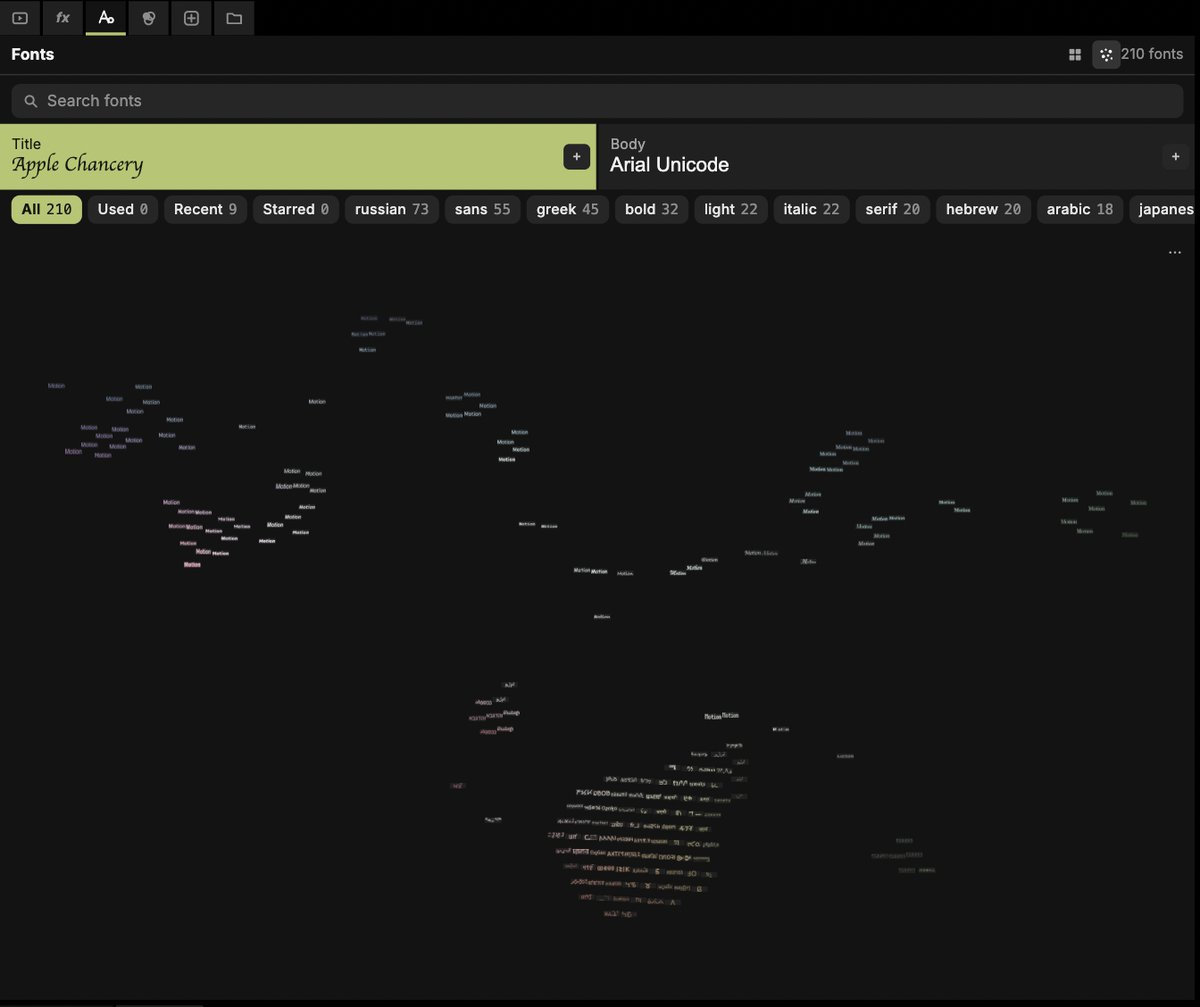
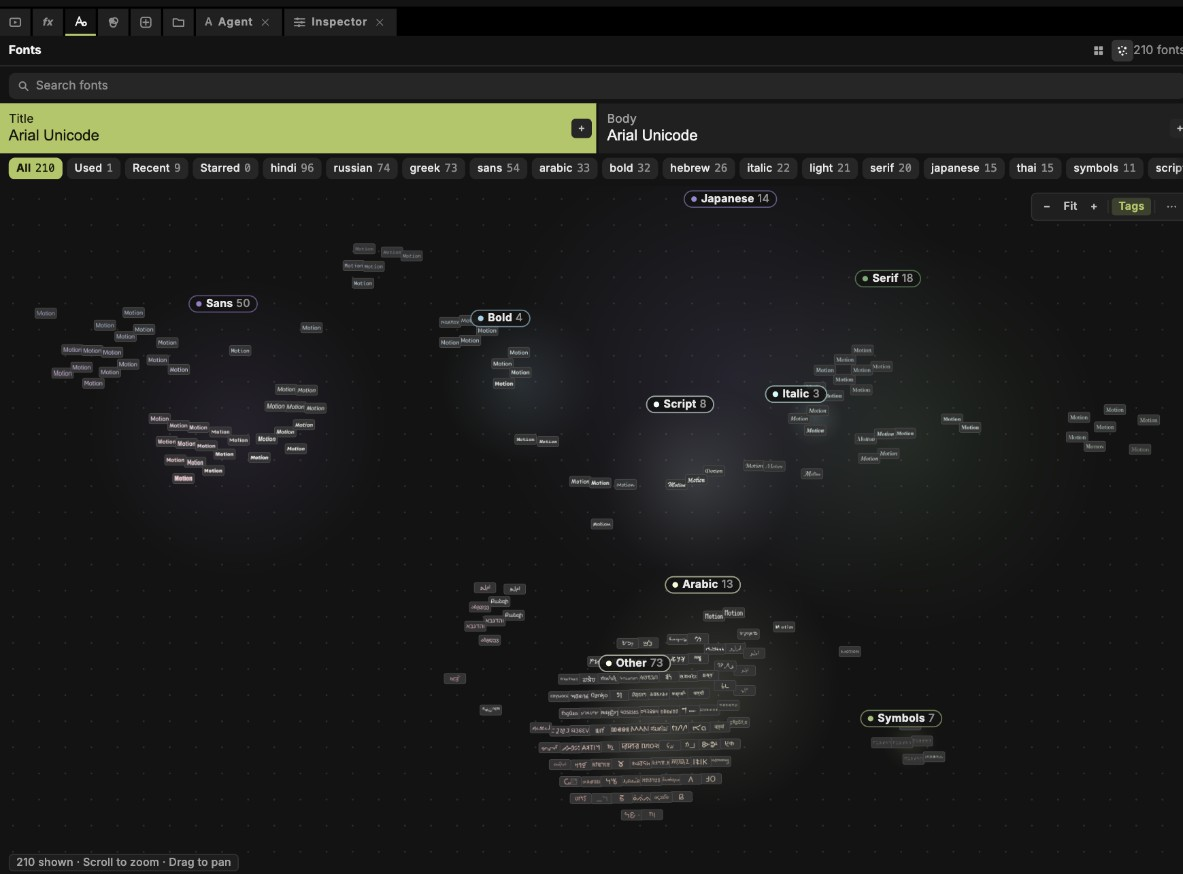
docs(pictures): refresh all UI screenshots to latest Motolii UI and fix shelf tab overflow

diff --git a/app/lib/workspace/window/panes.dart b/app/lib/workspace/window/panes.dart
@@ -307,9 +307,10 @@ class _PanesState extends State<Panes> {
       weight: weight,
       minimalSize: p.minSize,
       keepAlive: true,
-      // Stage and Tool Panel stay anchored as the workspace backbone; every other default tab
-      // and Vism panel can be closed freely and restored anytime via Tools.
-      closable: closable || (name != 'Stage' && name != 'Tool Panel'),
+      // Stage, Tool Panel, and compact icon-only shelf tabs stay clean without inline close icons;
+      // every named pane and Vism tab can be closed freely and restored anytime via Tools.
+      closable:
+          closable || (!p.iconOnly && name != 'Stage' && name != 'Tool Panel'),
       maximizable: false,
     );
   }
@@ -373,6 +374,8 @@ TabbedViewThemeData _tabs() {
     )
     ..normalButtonColor = Grey.g56
     ..hoverButtonColor = Grey.g91
+    ..buttonIconSize = Shape.z(11)
+    ..buttonsOffset = Shape.s(4)
     ..selectedStatus = (TabStatusThemeData()
       ..decoration = plain
           ? const BoxDecoration()

diff --git a/docs/index.html b/docs/index.html
@@ -543,8 +543,8 @@
           </div>
           <div class="txt">
             <span class="where">Tool Panel</span>
-            <h3>Blend と Align</h3>
-            <p>Blend は重なり順と合成モードを、重なる円で見せる一覧。Align は選んだレイヤーをキャンバスの端や中央に揃える。自分の道具も Dart 数行でここに足せる。</p>
+            <h3>Blend・Align・Vism パネル</h3>
+            <p>Blend は重なり順と合成モードを重なる円で見せる一覧。Align は選んだレイヤーをキャンバスの端や中央に揃える。さらに <code>+ New Vism</code> から JavaScript 1 本で独自の操作パネルを作り、<code>.vism</code> パックとして配布・導入できる。</p>
           </div>
         </article>
 

diff --git a/docs/TABS.ja.md b/docs/TABS.ja.md
@@ -97,7 +97,7 @@ Motolii のすべてのタブとパネルの機能紹介です。スクリーン
 
 レイヤー・テンプレート・コードを新規作成するための棚です。
 
-- **レイヤー：** Text・Camera・Adjustment。**図形（Shapes）。** **3D 立体（Solids）：** Ring・Gem・Cube・Floor。**ライト：** Sun・Point・Spot。
+- **レイヤー：** Text・Camera・Adjustment。**図形（Shapes）。** **3D 立体（Solids）：** Ring・Gem・Cube・Floor。**ライト：** Sun・Point・Spot・**Environment**（HDR 照明・回転・背景をタイムライン上で制御）。
 - **マテリアル：** Lit・Cloth・Glass・Lacquer・Bubble などを球体プレビューで選択。
 - **レシピ：** レイヤーと初期パラメータ一式をワンクリックで生成。
 - **エクスプレッション：** 複数の選択レイヤーへ適用すると、レイヤー間を連動させる**リレーション**になります。
@@ -124,8 +124,8 @@ Motolii のすべてのタブとパネルの機能紹介です。スクリーン
 現在のフレームを直接操作できるプレビュービューポートです。
 
 - **ツール：** 選択（`V`）・移動（`M`）・矩形（`R`）・楕円（`E`）・ペン（`P`）・テキスト（`T`）・ブラシ（`B`）・カメラ（`C`）。空き領域ドラッグで範囲選択。
-- **ブラシ：** 筆圧対応の Brush・Pen・Fill・Eraser モード。
-- Fit / 50% / 100% ズーム、セーフエリア、グリッド、**Snapshot**（押している間、保存フレームと比較表示）。
+- **ブラシ：** 筆圧対応の Brush・Pen・Fill・Eraser モード（手ブレ補正 `Smooth: Off / Low / Med / High` 調整付き）。
+- Fit / 50% / 100% ズーム、セーフエリア、グリッド、**Alpha**（透過チェッカーボード表示）、**Snapshot**（押している間、保存フレームと比較表示）。
 - ルーラーからのガイド引き出しと、端・ガイドへのスナップ。
 - 選択レイヤーのモーションパス、ナビゲーター、3D カメラギズモ（オービット・ドリー・フレーム調整）。
 - 下部のオプションバーから塗り・線・角丸・フォント・位置を即座に調整可能。
@@ -243,7 +243,7 @@ Motolii のすべてのタブとパネルの機能紹介です。スクリーン
 
 <img src="pictures/tabs/tool_panel.jpg" width="280" align="right">
 
-ドッキング可能なユーティリティツール群です。独自のパネルも数行の Dart で追加できます（[`app/lib/workspace/README.md`](../app/lib/workspace/README.md)）。
+ドッキング可能なユーティリティ・標準パネル・**Vism カスタムパネル**のランチャーです。上部の **`+ New Vism`** から 1 クリックで JS 製の独自パネルを作り始められ、**`Import`** で `.vism` パックを導入、**`Folder`** で配置先フォルダを開けます（[Vism クイックスタート](VISM_QUICKSTART.ja.md)）。
 
 <br clear="right">
 

diff --git a/docs/TABS.md b/docs/TABS.md
@@ -97,7 +97,7 @@ Color picker, palettes, and gradients for the selected layer's fill and stroke.
 
 Creation tiles for adding layers, presets, and code snippets.
 
-- **Layers:** Text, Camera, Adjustment. **Shapes.** **3D Solids:** Ring, Gem, Cube, Floor. **Lights:** Sun, Point, Spot.
+- **Layers:** Text, Camera, Adjustment. **Shapes.** **3D Solids:** Ring, Gem, Cube, Floor. **Lights:** Sun, Point, Spot, and **Environment** (timeline-animated HDR room lighting, rotation, and skybox).
 - **Materials:** Lit, Cloth, Glass, Lacquer, Bubble, etc., previewed on spheres.
 - **Recipes:** Multi-layer templates created with preconfigured values in one click.
 - **Expressions:** Applying an expression tile to multiple selected layers creates a **relation** between them.
@@ -124,8 +124,8 @@ Reusable presets combining a layer's effects and parameter values. Double-click 
 Direct viewport manipulation for the current frame.
 
 - **Tools:** Select (`V`), Move (`M`), Rectangle (`R`), Ellipse (`E`), Pen (`P`), Text (`T`), Brush (`B`), Camera (`C`). Dragging empty space starts a marquee selection.
-- **Brush** supports pen pressure with Brush, Pen, Fill, and Eraser modes.
-- Fit / 50% / 100% zoom, Safe Areas, Grid, and **Snapshot** (hold to compare against a saved reference frame).
+- **Brush** supports pen pressure with Brush, Pen, Fill, and Eraser modes, plus adjustable stroke smoothing (`Smooth: Off / Low / Med / High`).
+- Fit / 50% / 100% zoom, Safe Areas, Grid, **Alpha** (live checkerboard transparency preview), and **Snapshot** (hold to compare against a saved reference frame).
 - Rulers with draggable guides and edge/guide snapping.
 - Motion paths for the selected layer, mini navigator, and 3D camera gizmo (orbit, dolly, frame resize).
 - Context options strip beneath the canvas for fill, stroke, corner radius, font, and position.
@@ -243,7 +243,7 @@ Top-down view of the camera frustum with each layer rendered as a slab at its Z 
 
 <img src="pictures/tabs/tool_panel.jpg" width="280" align="right">
 
-Dockable utility tools. Custom panels can be added in a few lines of Dart (see [`app/lib/workspace/README.md`](../app/lib/workspace/README.md)).
+Dockable launcher for built-in panels, utility tools, and **Vism custom panels**. Click **`+ New Vism`** to scaffold and open a JS-authored panel in seconds, **`Import`** to install `.vism` packages, or **`Folder`** to open the panels directory (see [Vism Specification](CUSTOM_CARDS.md)).
 
 <br clear="right">
 

diff --git a/README.md b/README.md
@@ -37,7 +37,10 @@ Switching or adding a new tool shouldn't mean leaving behind the plugins, script
 
 Browse 1,300+ bundled effects and your font library on an interactive **2D similarity map** with category islands, zoom controls, and an enlarged hover loupe — or hover any tile to preview it live on the Stage without applying it first.
 
-![Effects 2D similarity map with cluster island labels, zoom controls, and similarity strip](docs/pictures/map_showcase.jpg)
+<p>
+<img src="docs/pictures/tabs/effects_map.jpg" alt="Effects 2D similarity map with cluster island labels and zoom controls" width="49%">
+<img src="docs/pictures/tabs/fonts_map.jpg" alt="Fonts 2D similarity map with typeface cluster islands" width="49%">
+</p>
 
 <p>
 <img src="docs/pictures/tabs/effects_wide.jpg" alt="Effects shelf tile grid and tag filters" width="49%">
